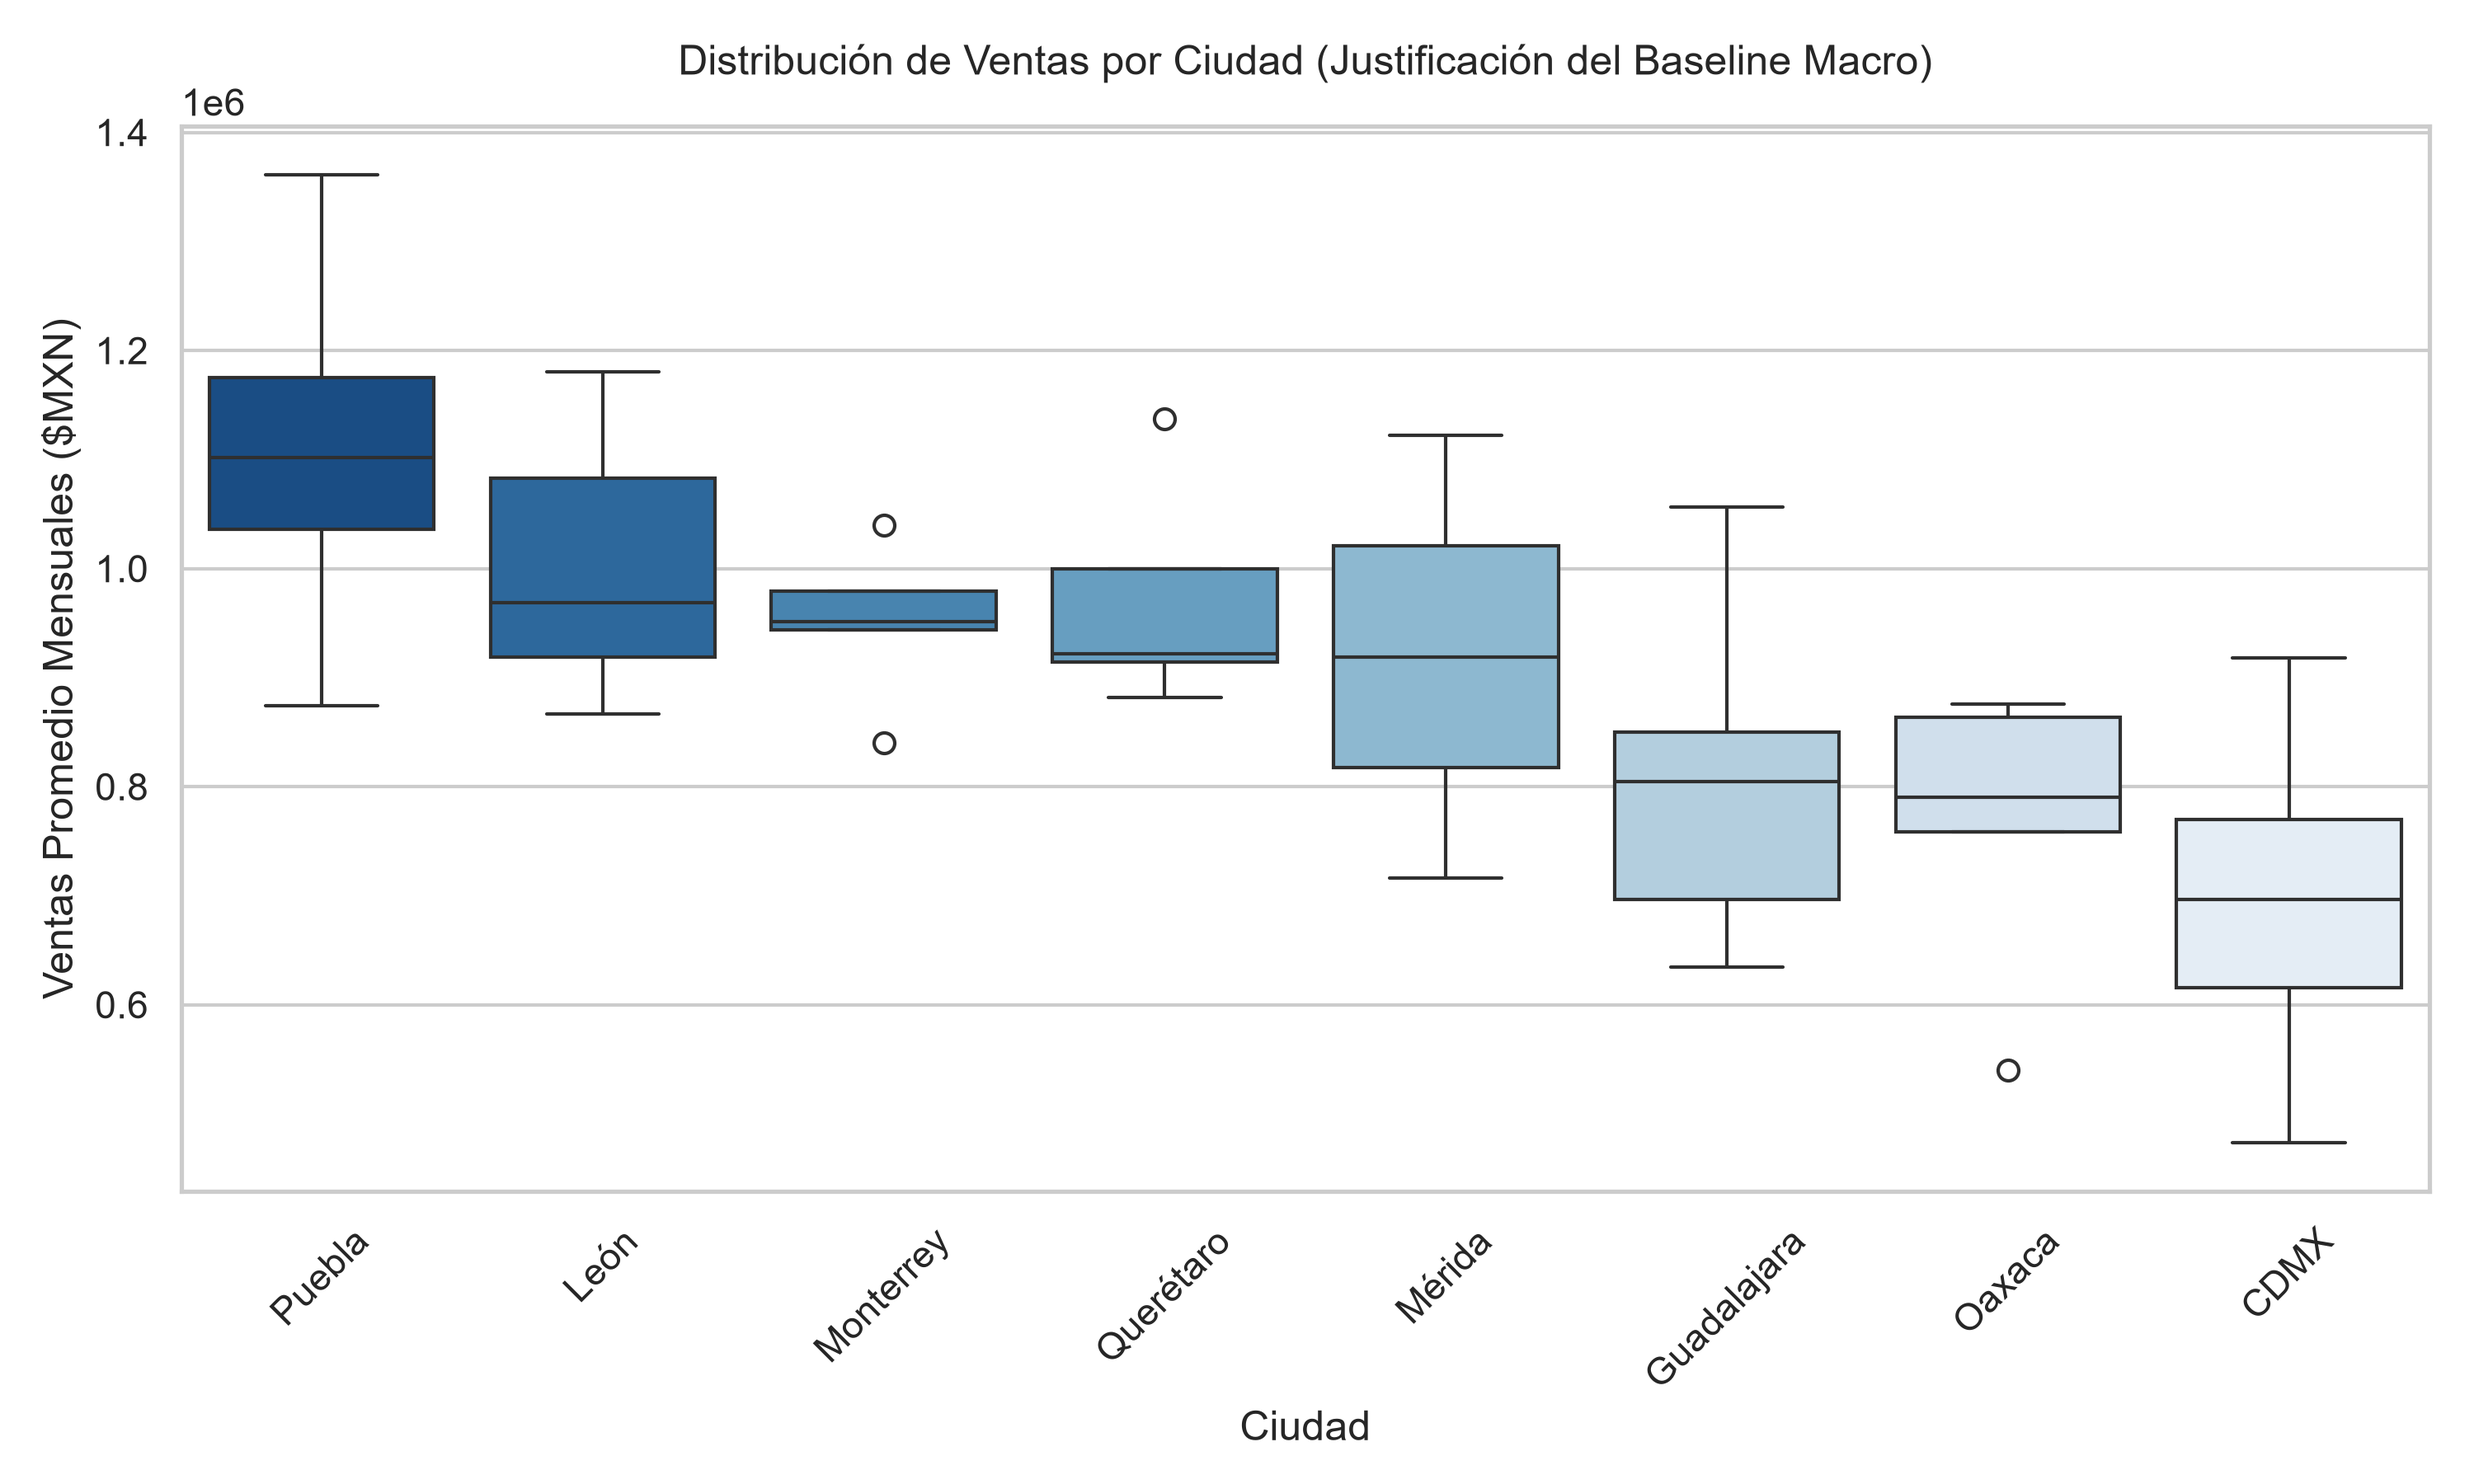
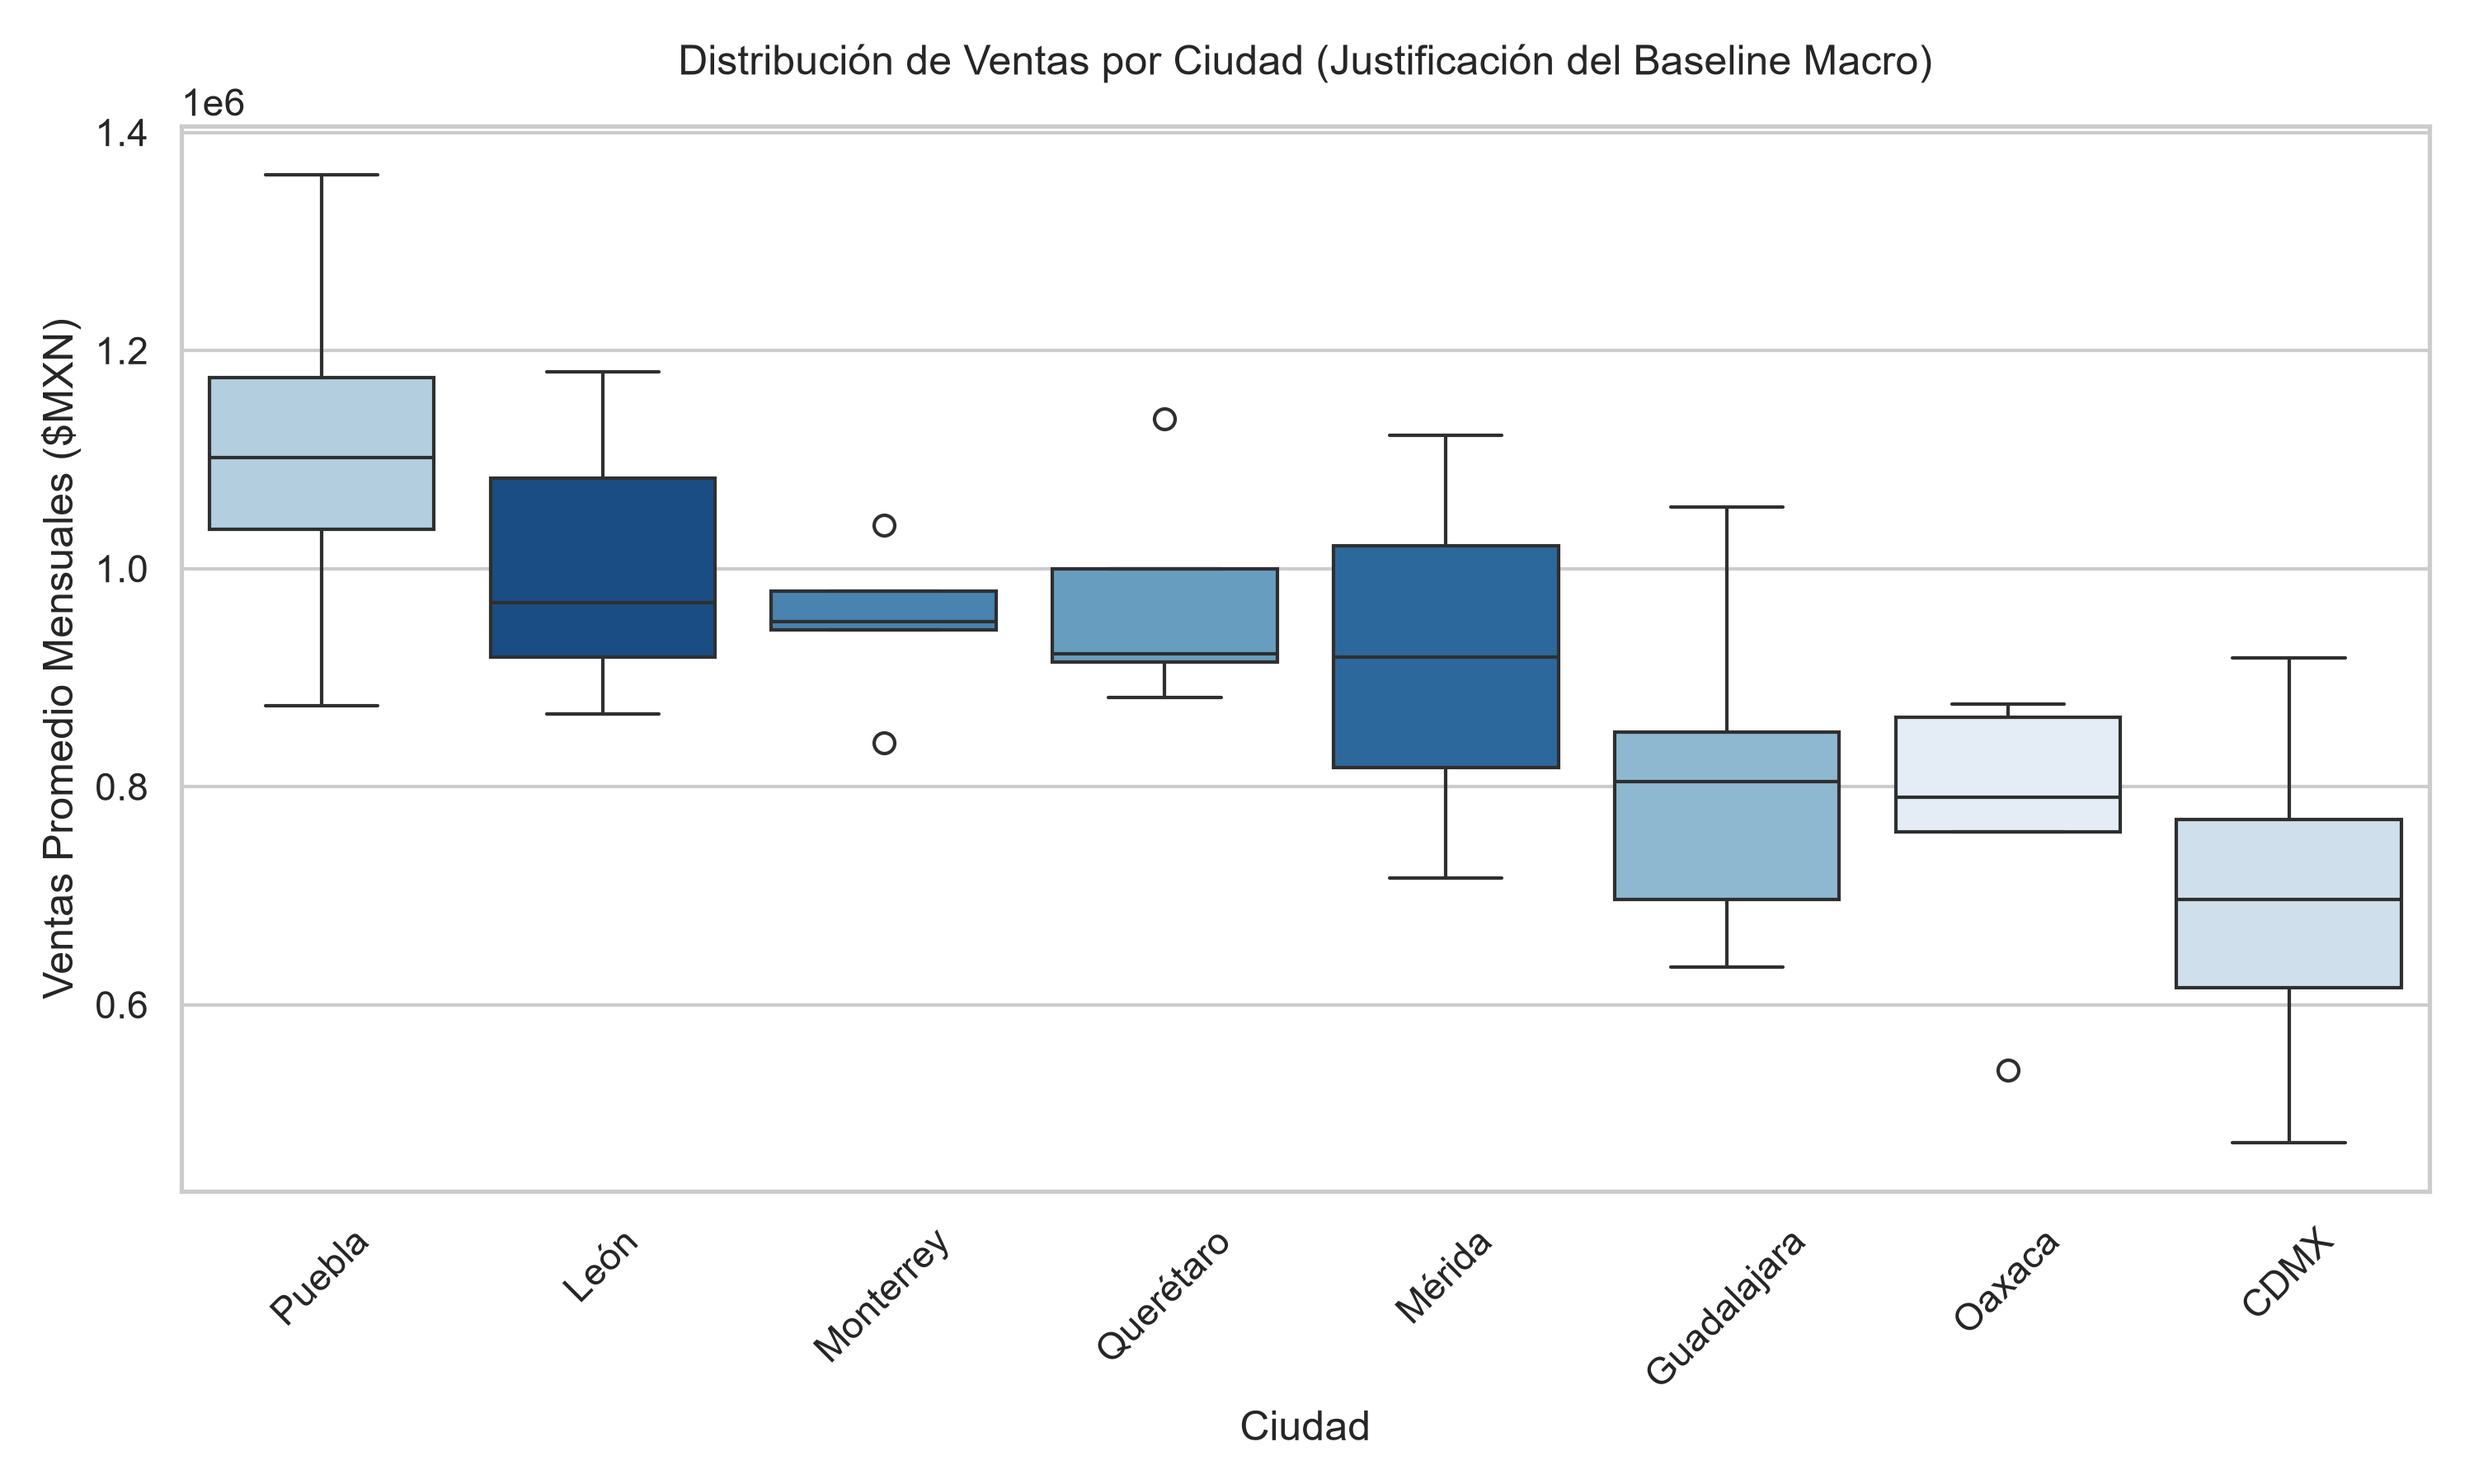
docs: Agrega graficas generadas tras corregir nulos

Changed region(s): [[0.527, 0.3422, 0.744, 0.6222], [0.062, 0.2489, 0.31, 0.4667]]

diff --git a/scripts/07_generar_graficas.py b/scripts/07_generar_graficas.py
@@ -27,7 +27,7 @@ def generar_graficas():
     # Gráfica 1: Boxplot por Ciudades (El Baseline Macro)
     plt.figure()
     orden_ciudades = sucursales.groupby('city')['avg_monthly_sales'].median().sort_values(ascending=False).index
-    sns.boxplot(data=sucursales, x='city', y='avg_monthly_sales', order=orden_ciudades, palette="Blues_r")
+    sns.boxplot(data=sucursales, x='city', y='avg_monthly_sales', order=orden_ciudades, hue='city', palette="Blues_r", legend=False)
     plt.title('Distribución de Ventas por Ciudad (Justificación del Baseline Macro)', pad=15)
     plt.ylabel('Ventas Promedio Mensuales ($MXN)')
     plt.xlabel('Ciudad')
@@ -37,7 +37,7 @@ def generar_graficas():
 
     # Gráfica 2: Campana y Límites de Control (El Ajuste ±25%)
     plt.figure()
-    sns.histplot(sucursales['avg_monthly_sales'], kde=True, color=COLOR_PRINCIPAL, bins=15)
+    sns.histplot(sucursales['avg_monthly_sales'].dropna(), kde=True, color=COLOR_PRINCIPAL, bins=15)
     media = sucursales['avg_monthly_sales'].mean()
     std = sucursales['avg_monthly_sales'].std()
     
@@ -76,8 +76,9 @@ def generar_graficas():
     # ==========================================
     
     # Preparar una regresión rápida para generar y_pred vs y_true
-    X = sucursales[['area_m2', 'parking_spaces', 'nearby_competitors', 'distance_to_nearest_store_km']]
-    y_true = sucursales['avg_monthly_sales']
+    # Llenamos los NaNs con la mediana o ceros para que la gráfica representativa corra
+    X = sucursales[['area_m2', 'parking_spaces', 'nearby_competitors', 'distance_to_nearest_store_km']].fillna(0)
+    y_true = sucursales['avg_monthly_sales'].fillna(sucursales['avg_monthly_sales'].median())
     modelo = Ridge(alpha=1.0)
     modelo.fit(X, y_true)
     y_pred = modelo.predict(X)
